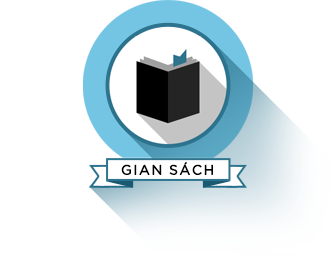
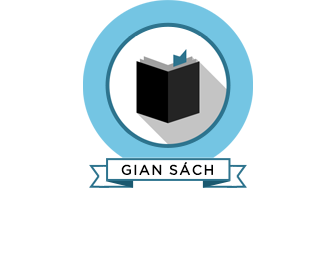
g
g

Changed region(s): [[0.2679, 0.1853, 0.8631, 0.8649]]

diff --git a/gian-sach.html b/gian-sach.html
@@ -8,9 +8,10 @@
         <link rel="icon" href="images/favicon.png">
         <link href="style.css" rel="stylesheet" type='text/css'/>
         <link href="reset.css" rel="stylesheet" type='text/css'/>
-        <link rel="stylesheet" href="css/bootstrap.min.css" type='text/css'/>
+        <link rel="stylesheet" href="https://maxcdn.bootstrapcdn.com/bootstrap/3.3.1/css/bootstrap.min.css">
         <link rel="stylesheet" href="css/font-awesome.min.css" type='text/css'/>
         <link rel="stylesheet" href="/css/jquery.mCustomScrollbar.min.css"/>
+        <link rel="stylesheet" type="text/css" href="//cdn.jsdelivr.net/jquery.slick/1.3.15/slick.css"/>
         <style>
             body{
                 background-color:#65afce;
@@ -158,15 +159,55 @@
         <!-- main content -->
         <div class="page-content" id="page-content">
 
-            <div style="background-image:url(images/library/intro_bg.jpg);background-size:cover;background-attachment:fixed;padding:10em 1em;height:100em;">
+            <div style="background-image:url(images/library/intro_bg.jpg);background-size:cover;padding:10em 1em 8em 1em;">
                 
+                <!-- icon -->
+                <div class="top-page-image" style="margin:0 auto">
+                    <img src="images/library/lib_icon.png" style="width:100%;" alt="home logo">
+                </div>
+
                 <!--search bar-->
-                <div style="margin:auto;margin-bottom:3em;max-width:40em;line-height:1;">
+                <div style="margin:auto;margin-bottom:2em;max-width:40em;line-height:1;">
                     <form action="#" method="post" style="position:relative;" id="searchBar">
                         <input type="search" placeholder="Tìm  truyện&hellip;" />
                         <button type="submit"><i class="fa fa-search"></i></button>
                     </form>
                 </div>
+
+                <!--feature-->
+                <div style="padding:0 2em;">
+                    <div class="row">
+
+                        <div class="col-sm-4">
+                            <a href="preview.html" style="color:#fff;text-align:center;text-transform:uppercase;font-weight:900;font-size:1.5em;">
+                                <div style="max-width:19em;margin:auto;">
+                                    <img src="images/library/feature/feature1.jpg" style="width:100%;height:auto;border-radius:10px;margin-bottom:1em;" class="book_showcase hover_expand" alt="feature book 1">
+                                </div>
+                                <p>công lí bổ trợ</p>
+                            </a>
+                        </div>
+                        
+                        <div class="col-sm-4">
+                            <a href="preview.html" style="color:#fff;text-align:center;text-transform:uppercase;font-weight:900;font-size:1.5em;">
+                                <div style="max-width:19em;margin:auto;">
+                                    <img src="images/library/feature/feature2.jpg" style="width:100%;height:auto;border-radius:10px;margin-bottom:1em;" class="book_showcase hover_expand" alt="feature book 2">
+                                </div>
+                                <p>sao bắc đẩu</p>
+                            </a>
+                        </div>
+
+                        <div class="col-sm-4">
+                            <a href="preview.html" style="color:#fff;text-align:center;text-transform:uppercase;font-weight:900;font-size:1.5em;">
+                                <div style="max-width:19em;margin:auto;">
+                                    <img src="images/library/feature/feature3.jpg" style="width:100%;height:auto;border-radius:10px;margin-bottom:1em;" class="book_showcase hover_expand" alt="feature book 3">
+                                </div>
+                                <p>trò chơi tận diệt</p>
+                            </a>
+                        </div>
+
+                    </div>
+                </div>
+
             </div>
 
             <!--2nd section SCI FI-->
@@ -519,14 +560,33 @@
 
             //carousel
             $(document).ready(function(){
-                $('.carousel').slick({
+                $('.feature').slick({
                     dots: true,
                     infinite: true,
                     speed: 500,
-                    slidesToShow: 1,
-                    adaptiveHeight: true,
+                    slidesToShow: 3,
                     autoplay: true,
                     autoplaySpeed: 2500,
+                    responsive: [
+                        {
+                            breakpoint: 1050,
+                            settings: {
+                                slidesToShow: 2,
+                                slidesToScroll: 1,
+                                arrow: true,
+                                dots: false,
+                            }
+                        },
+                        {
+                            breakpoint: 600,
+                            settings: {
+                                slidesToShow: 1,
+                                slidesToScroll: 1,
+                                arrow: true,
+                                dots: false,
+                            }
+                        }
+                    ]
                 });
                 $('.book-carousel, .book-carousel-new, .book-carousel-top').slick({
                     dots: false,

diff --git a/index.html b/index.html
@@ -160,7 +160,7 @@
         <div class="page-content" id="page-content">
 
             <!--intro 1st sect-->
-            <div style="background-image:url(images/home/intro_bg.jpg);background-size:cover;background-attachment:fixed;padding:8.5em 0;">
+            <div style="background-image:url(images/home/intro_bg.jpg);background-size:cover;padding:8.5em 0;">
                 <div style="text-align:center;width:100%;padding:0 1em;">
 
                     <!--top text-->
@@ -191,7 +191,7 @@
                     <!--promotions horizontal-->
                     <div class="col-sm-12 hidden-xs">
                         <div class="choose_home">
-                            <div class="carousel" style="100%">
+                            <div class="carousel">
                                 <div>
                                     <img src="images/home/promotion/promo1.jpg" style="width:100%" alt="promotion, discount, and sales 1">
                                 </div>
@@ -208,7 +208,7 @@
                     <!--promotions vertical-->
                     <div class="col-sm-12 hidden-sm hidden-md hidden-lg">
                         <div class="choose_home">
-                            <div class="carousel" style="100%">
+                            <div class="carousel">
                                 <div>
                                     <img src="images/home/promotion/promo1_ver.jpg" style="width:100%" alt="promotion, discount, and sales 1">
                                 </div>
